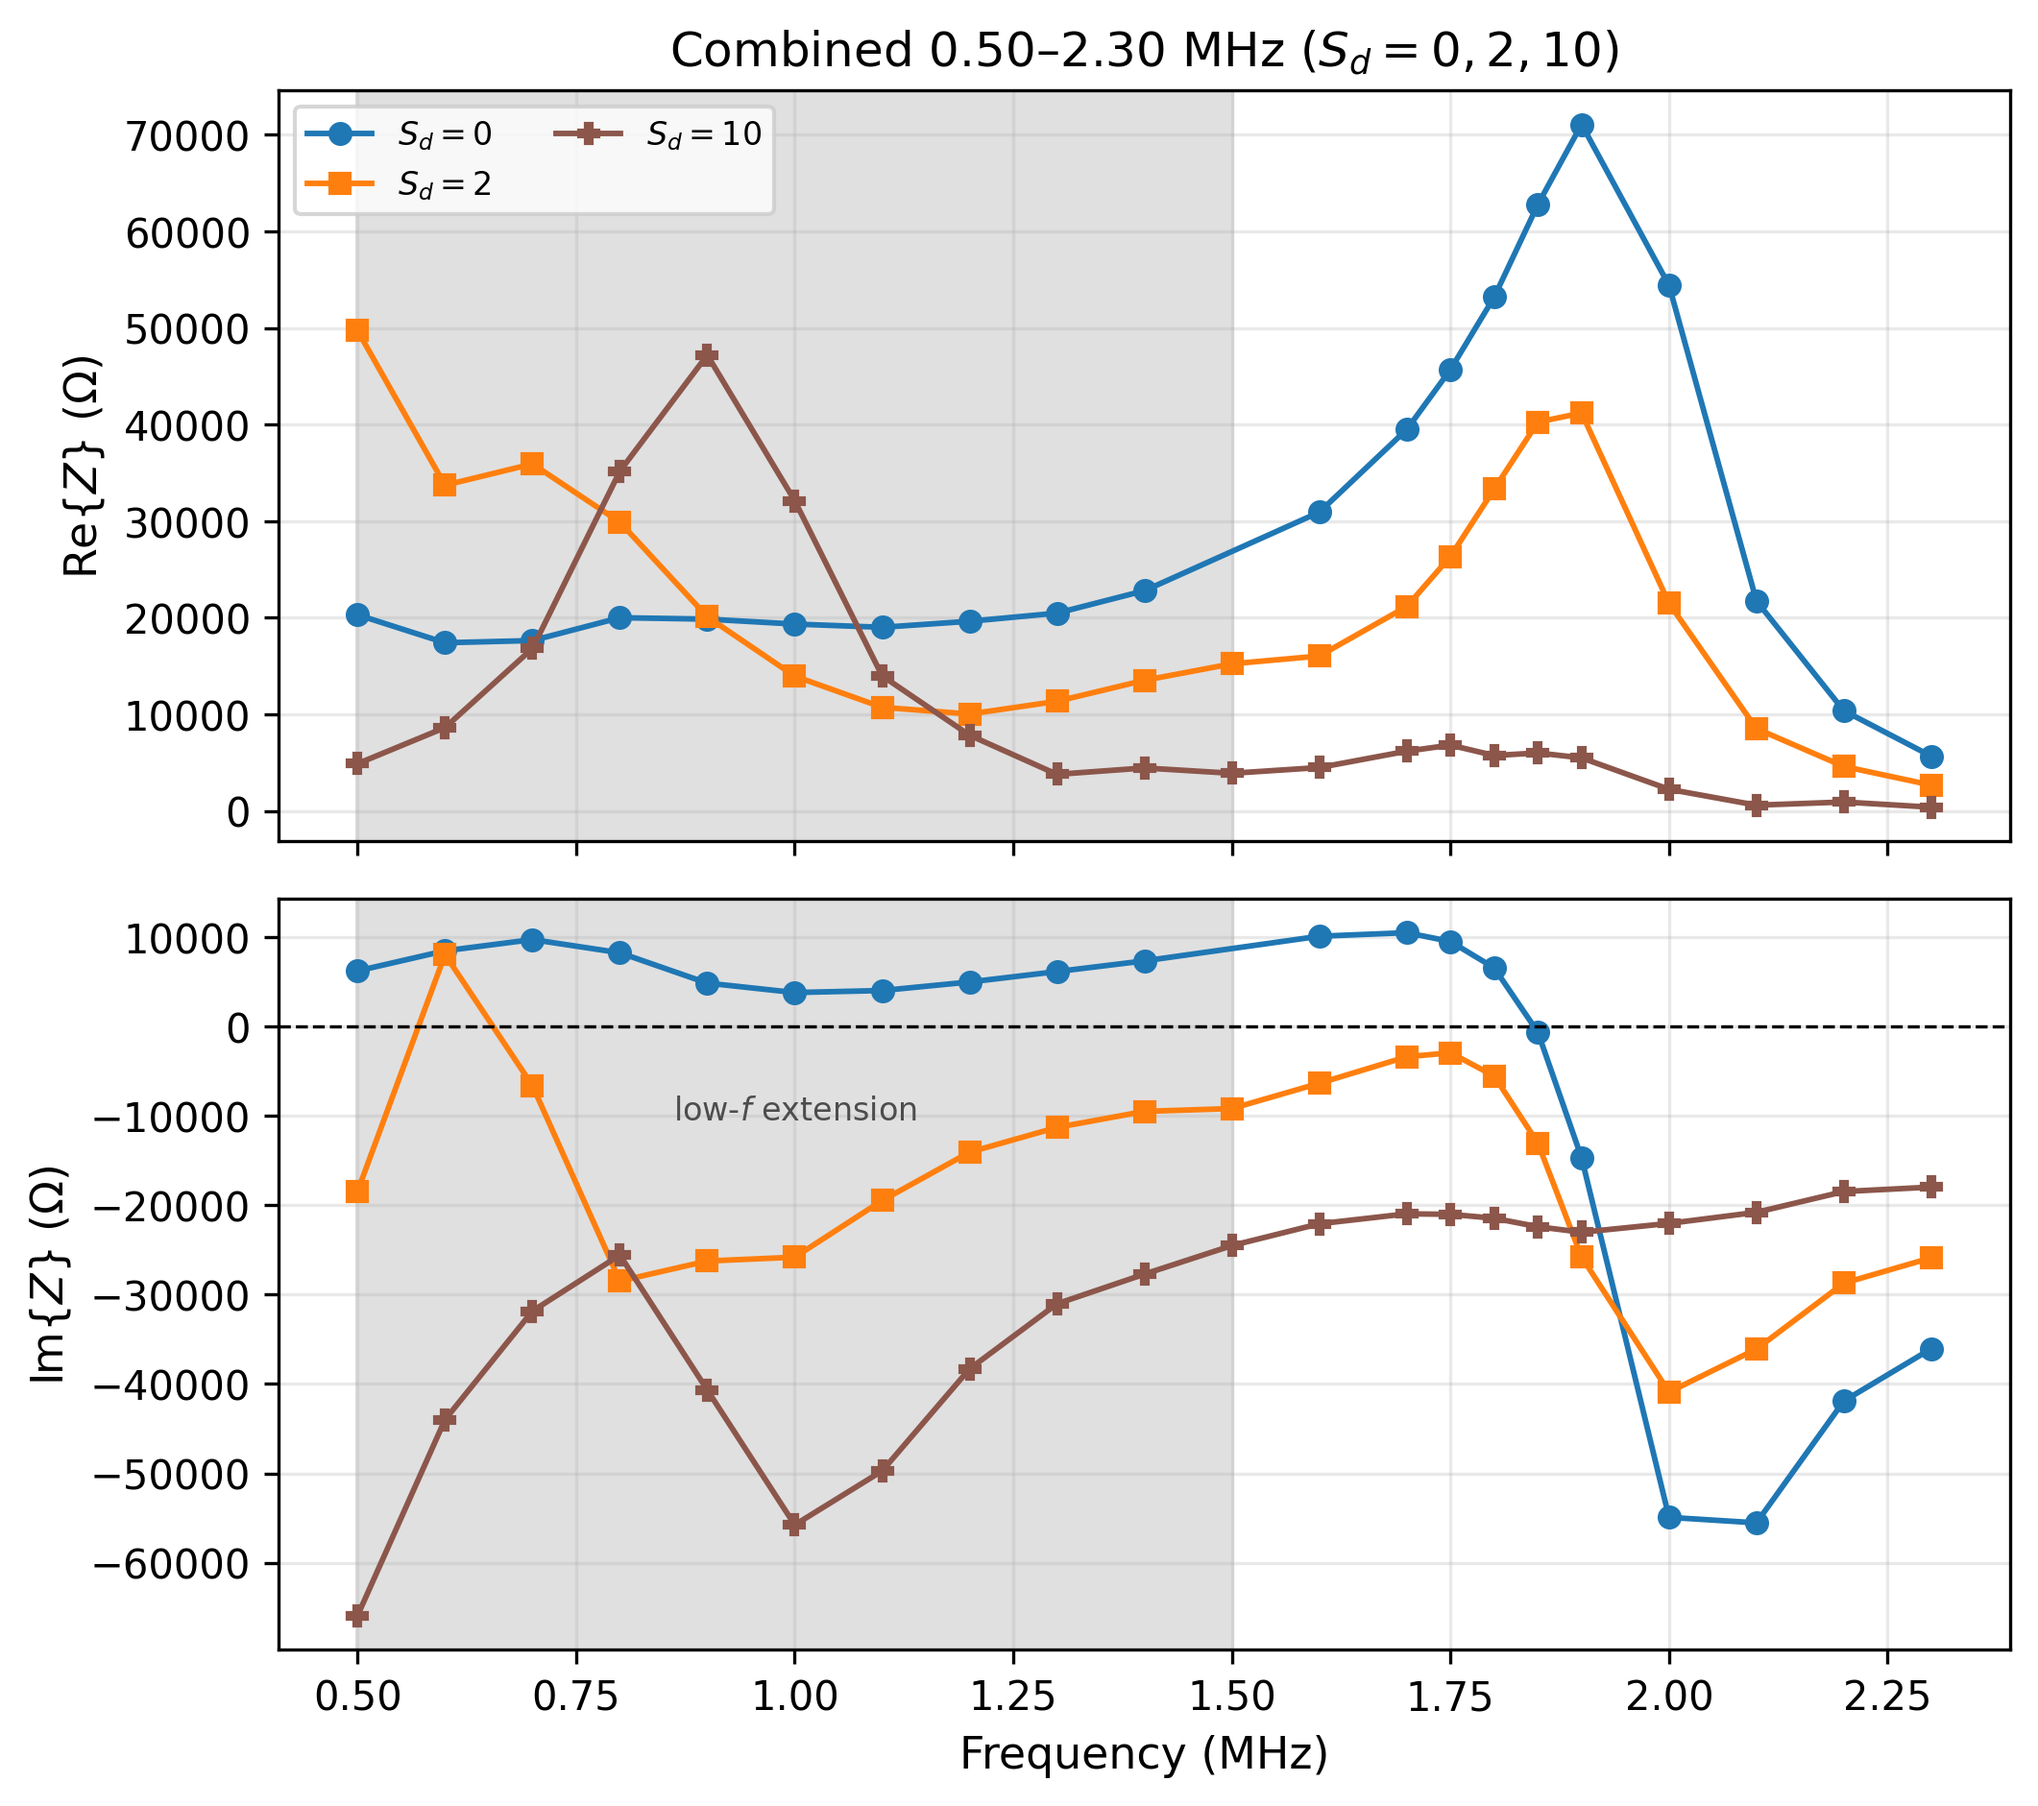
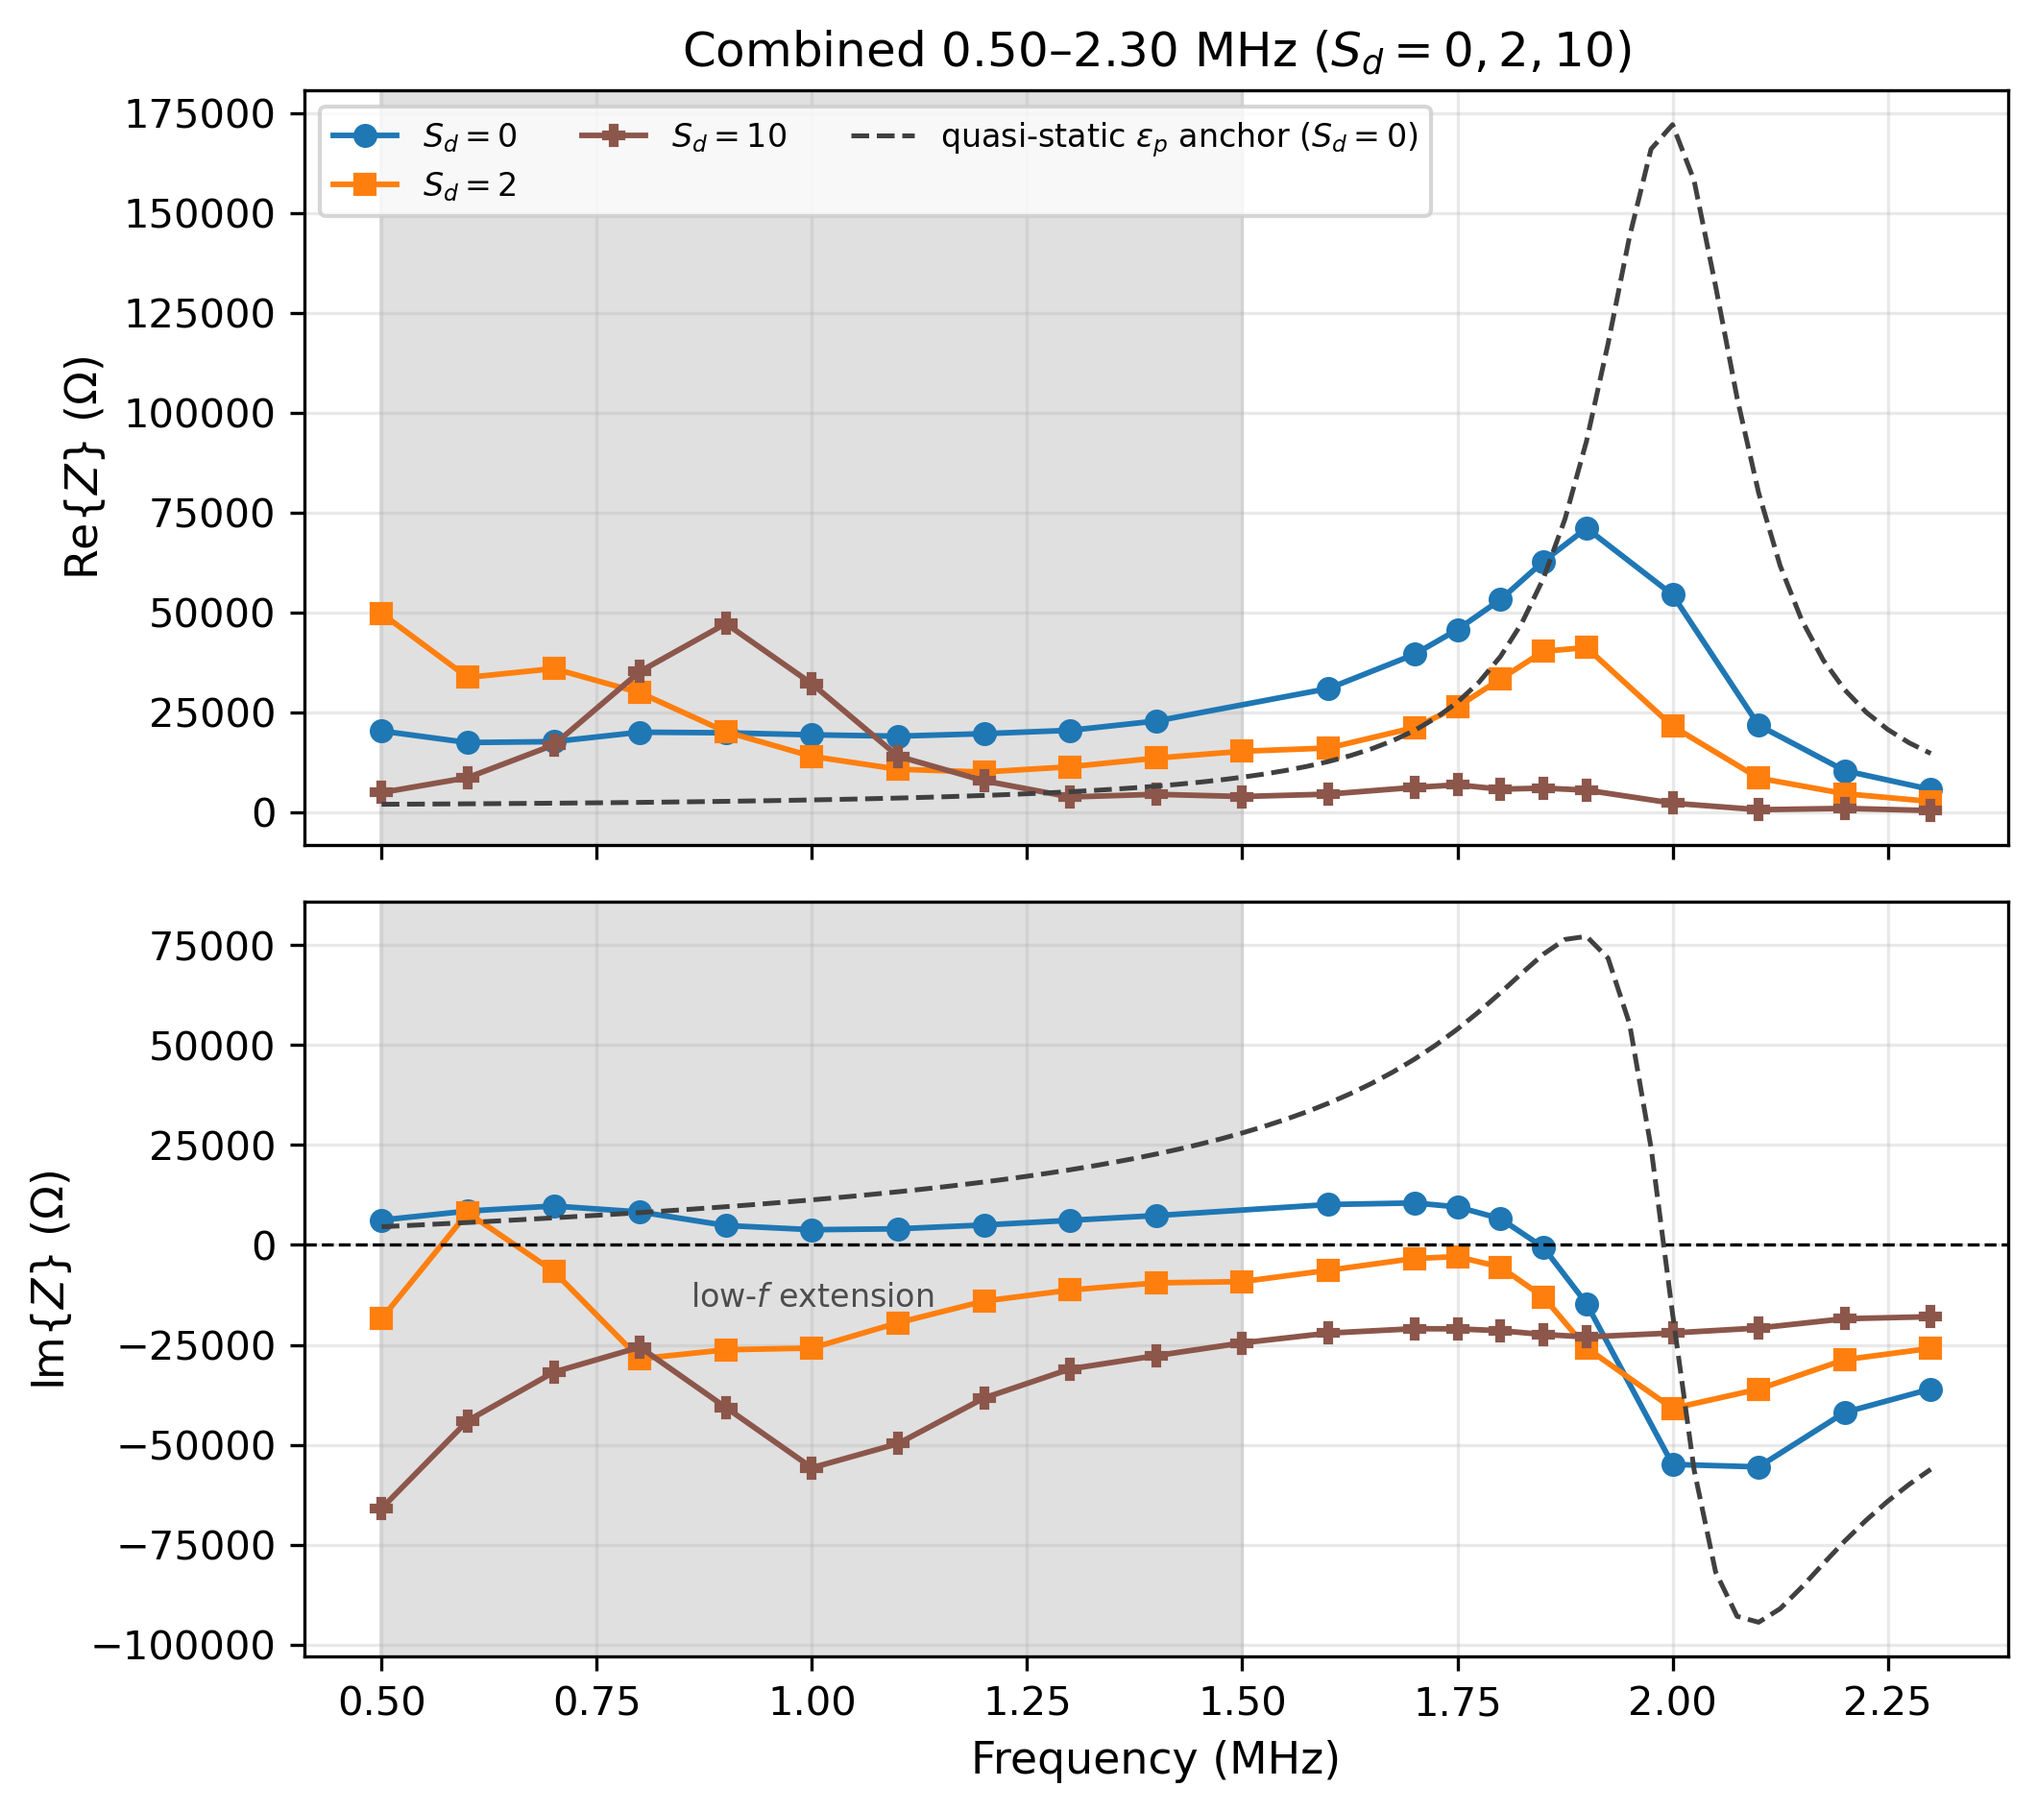
Paper 1 critique 2: add quasi-static Sd=0 solver anchor
New Results subsection (sec:anchor): cold-plasma lumped anchor
Z_qs = 1/(j w C_fs eps_p), C_fs = 4.62 pF from the plasma-off pilot
on the same grid. Sign structure matches simulated Sd=0 across the
band; eps'=0 crossing 1.99 vs 1.846 MHz (7%); Im within ~50% at
0.5-0.8 MHz, factor 3-10 overestimate toward fp; Re excess 4-9x at
low f flagged as unseparated (hard feed / ABC / collisional loss).
Dashed anchor curves overlaid on z_combined.png; comparison table in
analysis/data/qs_anchor_sd0.txt; PLAN updated. Box-size convergence
(105x105x98, Sd=0,2 @ 1.7 MHz) queued separately. Local only.

diff --git a/projects/tu2008-sheath/paper1_static_sheath_capacitance/draft/paper1_radioscience.tex b/projects/tu2008-sheath/paper1_static_sheath_capacitance/draft/paper1_radioscience.tex
@@ -144,13 +144,18 @@ Figure~\ref{fig:zdense} shows the full thickness survey. In \(1.50\)--\(1.80\,\m
 \label{fig:zabs}
 \end{figure}
 
+\subsection{Solver anchor: the unsheathed case against the quasi-static cold-plasma limit}
+\label{sec:anchor}
+
+Before interpreting sheath trends, we check the unsheathed solver against the lumped quasi-static limit of cold-plasma dipole theory \cite{balmain1964}. On the same grid with the plasma switched off, the dipole presents \(Z\approx 1-22{,}944j\,\Omega\) at \(1.50\,\mathrm{MHz}\), i.e.\ a quasi-static capacitance \(C_\mathrm{fs}\approx 4.62\,\mathrm{pF}\) (full free-space sweep in the analysis products). Dressing that capacitance with the cold unmagnetized permittivity, \(Z_\mathrm{qs}=1/(j\omega C_\mathrm{fs}\varepsilon_p)\) with \(\varepsilon_p=1-f_p^2/(f(f-j\nu))\), \(f_p=2\,\mathrm{MHz}\), \(\nu=0.2\,\mathrm{MHz}\), gives the dashed anchor curves in Figure~\ref{fig:zfull}. The anchor reproduces the simulated \(S_d=0\) sign structure across the band (inductive below the crossing, capacitive above), places the \(\varepsilon'=0\) crossing at \(1.99\,\mathrm{MHz}\) against the simulated \(1.846\,\mathrm{MHz}\) (7\% high), and matches \(\mathrm{Im}\{Z\}\) within \(\sim 50\%\) at \(0.50\)--\(0.80\,\mathrm{MHz}\). It degrades as expected toward \(f_p\)---overestimating \(\mathrm{Im}\{Z\}\) by a factor of 3--10 where dipole dynamics, radiation, and the finite box take over---and simulated \(\mathrm{Re}\{Z\}\) exceeds the anchor by a factor of 4--9 at low frequency, an excess-loss term (hard feed, boundary absorption, collisional fluid) that the present runs do not separate. The anchor therefore validates sign, crossing, and order of magnitude of the homogeneous case; it is not a precision model of the boxed dipole, and it does not substitute for a box-size convergence test.
+
 \subsection{Low-frequency extension for \(S_d=0,2,10\)}
 
 Figure~\ref{fig:zfull} stitches the low-frequency extension onto the dense band for the three thicknesses that were re-run below \(1.50\,\mathrm{MHz}\). Where the two campaigns share a \((S_d,f)\) cell at and above \(1.50\,\mathrm{MHz}\), the phasors agree to machine precision (the low-frequency table reuses the dense-band values there), so the stitch is not a second independent measurement. Across the join, \(S_d=2\) and \(S_d=10\) vary smoothly (\(|\Delta Z|/|Z|\approx 0.10\)--\(0.17\) per \(100\,\mathrm{kHz}\) step). For \(S_d=0\) the incomplete \(1.50\,\mathrm{MHz}\) restart is omitted, leaving a \(200\,\mathrm{kHz}\) gap from \(1.40\) to \(1.60\,\mathrm{MHz}\); Re and Im continue the same rising inductive trend on both sides of that gap. Larger adjacent-step jumps elsewhere (near \(0.60\,\mathrm{MHz}\) for \(S_d=2\); near \(f_p\) for \(S_d=0,2\)) track physical structure, not campaign boundaries. \(S_d=0\) stays inductive through \(0.50\)--\(1.40\,\mathrm{MHz}\). \(S_d=10\) is capacitive at every low-frequency point. \(S_d=2\) is capacitive except for a brief inductive sample at \(0.60\,\mathrm{MHz}\), with an interpolated \(+\to-\) crossing at \(0.655\,\mathrm{MHz}\). That crossing rests on a single inductive tone and should be treated as provisional pending denser sampling.
 
 \begin{figure}
 \noindent\includegraphics[width=\textwidth]{figures/z_combined.png}
-\caption{Combined CW impedance for \(S_d=0,2,10\) over \(0.50\)--\(2.30\,\mathrm{MHz}\). The shaded region is the low-frequency extension. Shared tones at \(f\ge 1.50\,\mathrm{MHz}\) match the dense band exactly; \(S_d=0\) omits the incomplete \(1.50\,\mathrm{MHz}\) restart (visible \(1.40\)--\(1.60\,\mathrm{MHz}\) gap).}
+\caption{Combined CW impedance for \(S_d=0,2,10\) over \(0.50\)--\(2.30\,\mathrm{MHz}\). The shaded region is the low-frequency extension. Shared tones at \(f\ge 1.50\,\mathrm{MHz}\) match the dense band exactly; \(S_d=0\) omits the incomplete \(1.50\,\mathrm{MHz}\) restart (visible \(1.40\)--\(1.60\,\mathrm{MHz}\) gap). Dashed curves are the quasi-static cold-plasma anchor for \(S_d=0\), \(Z_\mathrm{qs}=1/(j\omega C_\mathrm{fs}\varepsilon_p)\) with \(C_\mathrm{fs}=4.62\,\mathrm{pF}\) from the plasma-off run on this grid; the anchor tracks sign and crossing but is not a precision model near \(f_p\) (Section~\ref{sec:anchor}).}
 \label{fig:zfull}
 \end{figure}
 

diff --git a/projects/tu2008-sheath/paper1_static_sheath_capacitance/analysis/make_ceff_products.py b/projects/tu2008-sheath/paper1_static_sheath_capacitance/analysis/make_ceff_products.py
@@ -59,6 +59,37 @@ def coax_dipole(sd: int, r_eff: float = R_EFF) -> float:
     return coax_monopole(sd, r_eff) / 4.0
 
 
+FP_HZ = 2.0e6
+NU_HZ = 0.2e6  # collision frequency nu = 0.1 * fp used in all CW runs
+# Free-space dipole capacitance from the plasma-off pilot run on the same grid
+# (results/free_space_cw/fs_f1500000: Z = 1 - 22944j ohm at 1.5 MHz).
+C_FS = -1.0 / (2.0 * math.pi * 1.5e6 * -22944.0)
+
+
+def qs_anchor_z(freq: float) -> complex:
+    """Quasi-static cold-plasma anchor for Sd=0: Z = 1 / (j w C_fs eps_p).
+
+    eps_p = 1 - fp^2 / (f (f - j nu)) is the cold unmagnetized plasma
+    permittivity (Balmain-limit, lumped-capacitance form). This is an
+    infinite-medium, zero-radiation reference, not a fit to the simulation.
+    """
+    eps = 1.0 - FP_HZ**2 / (freq * (freq - 1j * NU_HZ))
+    return 1.0 / (1j * 2.0 * math.pi * freq * C_FS * eps)
+
+
+def write_qs_anchor_table(by_sd):
+    lines = [
+        "# Quasi-static cold-plasma anchor vs simulated Sd=0 (Balmain lumped limit)",
+        "# Z_qs = 1/(j w C_fs eps_p), eps_p = 1 - fp^2/(f(f - j nu)), fp=2 MHz, nu=0.2 MHz",
+        f"# C_fs = {C_FS*1e12:.2f} pF from free-space pilot fs_f1500000 (Z=1-22944j ohm at 1.5 MHz)",
+        "# f_Hz\tRe_sim\tIm_sim\tRe_qs\tIm_qs",
+    ]
+    for fr, re, im, _az in sorted(by_sd[0]):
+        z = qs_anchor_z(fr)
+        lines.append(f"{fr:.0f}\t{re:.3f}\t{im:.3f}\t{z.real:.3f}\t{z.imag:.3f}")
+    (DATADIR / "qs_anchor_sd0.txt").write_text("\n".join(lines) + "\n", encoding="utf-8")
+
+
 def ceff_from_im(freq: float, imz: float) -> float | None:
     if imz >= 0:
         return None
@@ -275,6 +306,12 @@ def fig_z_dense(by_sd):
 def fig_z_combined(by_sd):
     fig, axes = plt.subplots(2, 1, figsize=(7.2, 6.4), sharex=True)
     plot_zi(axes[0], axes[1], by_sd, [0, 2, 10], fmin=0.5e6, fmax=2.3e6)
+    f_qs = [0.5e6 + 0.025e6 * i for i in range(73)]  # 0.50-2.30 MHz
+    z_qs = [qs_anchor_z(f) for f in f_qs]
+    for ax, vals in ((axes[0], [z.real for z in z_qs]), (axes[1], [z.imag for z in z_qs])):
+        ax.plot([f / 1e6 for f in f_qs], vals, color="0.25", ls="--", lw=1.2,
+                label=r"quasi-static $\varepsilon_p$ anchor ($S_d=0$)")
+    axes[0].legend(ncol=3, loc="best")
     for ax in axes:
         ax.axvspan(0.5, 1.5, color="0.88", zorder=0)
     axes[0].set_title(r"Combined $0.50$–$2.30$ MHz ($S_d=0,2,10$)")
@@ -639,6 +676,7 @@ def main():
     fig_ceff_freq(ceff_by_sd)
     fig_ceff_sd(lowf_means)
     fig_circuit_overlay(by_sd)
+    write_qs_anchor_table(by_sd)
     write_tables(rows, ceff_by_sd, lowf_means, by_sd)
 
     print("Low-f C_eff diagnostic (0.8-1.2 MHz):")

diff --git a/projects/tu2008-sheath/paper1_static_sheath_capacitance/PLAN.md b/projects/tu2008-sheath/paper1_static_sheath_capacitance/PLAN.md
@@ -16,7 +16,9 @@ Last updated: 2026-09-15
 - [x] Complete methods: \(\nu\), species, \(T\), \(\Delta t\), ABC, hard \(E_z\), \(V/I\) definition, domain size
 - [x] Bibliography: Brooks DOI; Mlodnosky & Garriott; Galejs; Lee (Radio Science)
 - [x] Drop internal Paper 0 cite from manuscript body
-- [ ] Free-space CW on the same dipole (`analysis/FREE_SPACE_CONTROL.md`)
+- [x] Quasi-static solver anchor for $S_d=0$ (2026-10-09): $C_\mathrm{fs}=4.62$ pF from the plasma-off pilot; $Z_\mathrm{qs}=1/(j\omega C_\mathrm{fs}\varepsilon_p)$ vs simulated $S_d=0$ in `analysis/data/qs_anchor_sd0.txt`, dashed overlay in `z_combined.png`, anchor subsection in the manuscript (sign + crossing 1.99 vs 1.846 MHz; Im within ~50% at 0.5–0.8 MHz; Re excess 4–9x noted)
+- [ ] Box-size convergence: 105x105x98 grid, $S_d=0,2$ at 1.70 MHz (queued overnight 2026-10-09, `run_convergence.sh`)
+- [ ] Free-space CW on the same dipole (`analysis/FREE_SPACE_CONTROL.md`) — pilot 1.5 MHz done; 1.5–2.3 MHz sweep running 2026-10-09
 - [ ] Low-\(f\) CW for \(S_d=4,6,8\) + denser \(S_d=2\) tones (`analysis/LOWF_INTERMEDIATE_PLAN.md`)
 - [ ] Fill author list, affiliations, corresponding address
 - [ ] Replace Open Research with archival DOI
